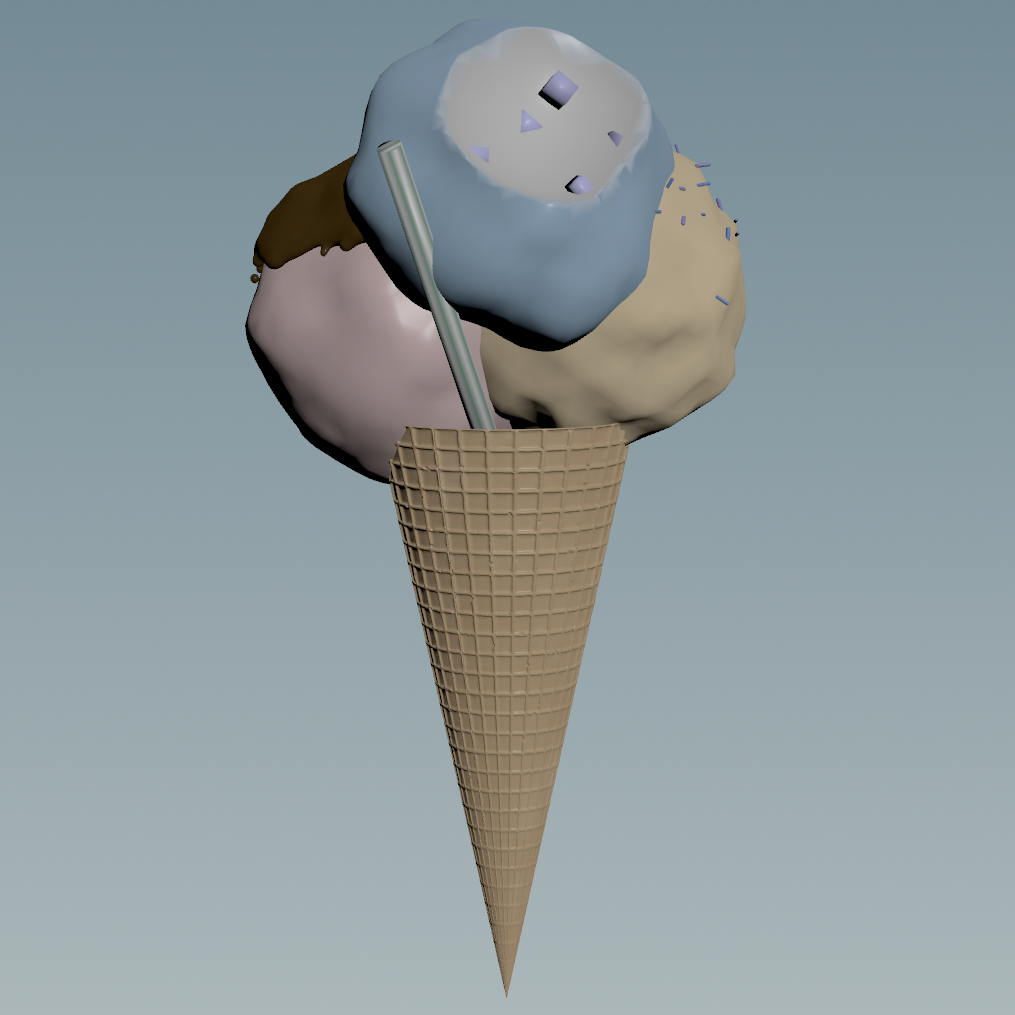
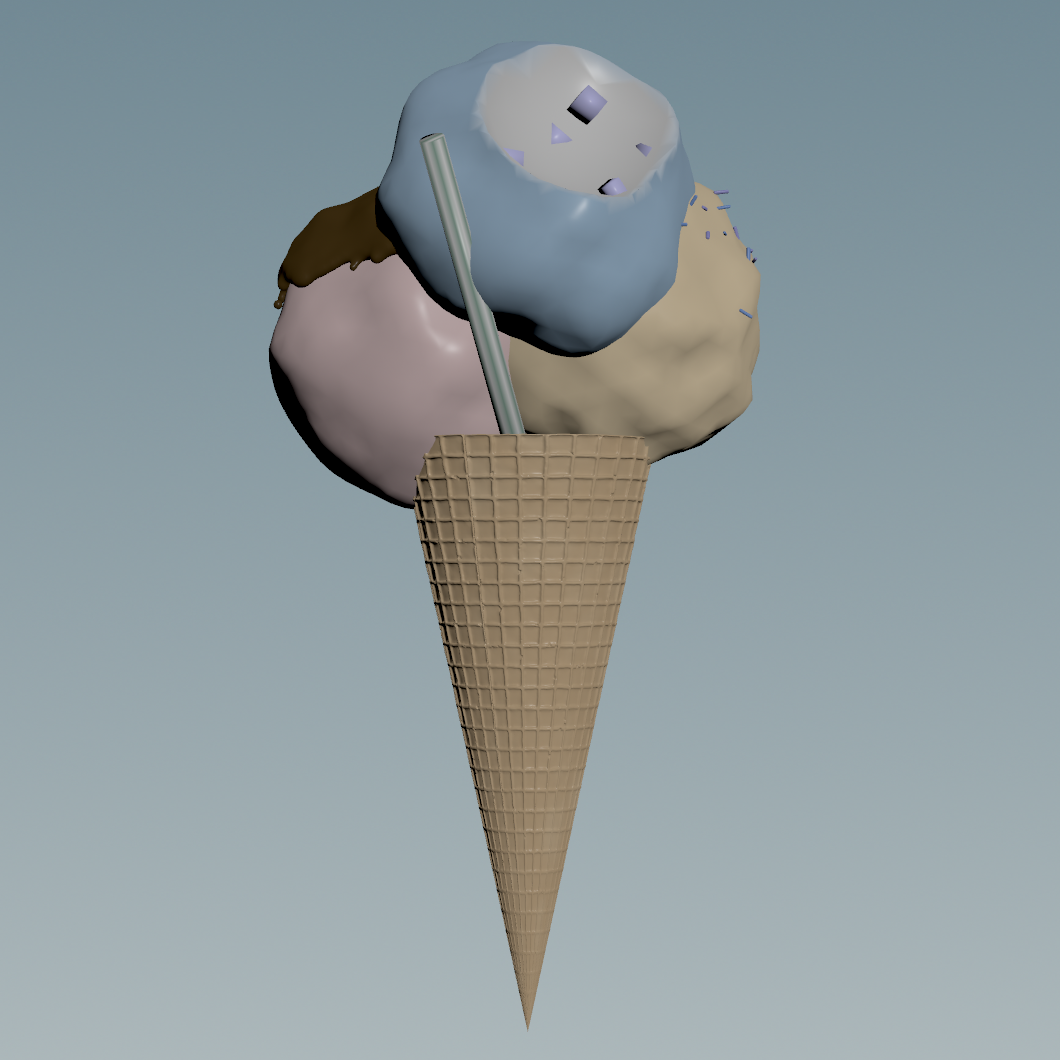
update cone

diff --git a/Project1/Ice Cream/README.md b/Project1/Ice Cream/README.md
@@ -13,7 +13,6 @@
   - [Ice Cream Scoops](#ice-cream-scoops)
   - [Decorative Biscuit Stick](#decorative-biscuit-stick)
 - [Dynamic Parameters](#dynamic-parameters)
-- [Dynamic Parameters](#dynamic-parameters-1)
 - [Challenges and Solutions](#challenges-and-solutions)
 - [Visual Showcase](#visual-showcase)
 - [Future Improvements](#future-improvements)
@@ -35,10 +34,13 @@ This demo showcases the creation of a procedural ice cream cone using Houdini's 
 ## Implementation Details
 
 ### Waffle Cone
-- **Base Shape:** Created by extruding a grid with a waffle pattern.
-- **Waffle Texture:** Achieved by scattering points on the grid and using `copytopoints` to add small varying-sized particles.
-- **Cone Assembly:** The waffle and particles are combined using VDB to simulate slight irregularities and minor damage.
-- **Final Shape:** The assembled waffle is then shaped into a cone using `bend` and `lineartaper`.
+- **Base Shape:** Created by extruding a grid with `polyextrude` to form the basic waffle structure. <p align=“center”><img src="media/cone_base.png" alt="Cone Base Shape" title="Cone Base Shape" height=250> <img src="media/cone_base_nodes.png" alt="Cone Base Shape Nodes" title="Cone Base Shape Nodes" height=250></p>
+
+- **Damaging Particles:** Achieved by scattering points on the grid, modifying them with `pointwrangle` to add size variation, and using `copytopoints` to add small particles with `mountain` applied to create bumpy surfaces. <p align=“center”><img src="media/cone_particles.png" alt="Cone Damaging Particles" title="Cone Damaging Particles" height=250> <img src="media/cone_particles_nodes.png" alt="Cone Damaging Particles Nodes" title="Cone Damaging Particles Nodes" height=250></p>
+
+- **Waffle Pattern Formation:** The waffle grid and scattered particles are combined using VDB to simulate slight irregularities and minor damage. After merging, a `pointvop` is used to add noise to the `P` attribute, and another `pointvop` is applied to assign two slightly different colors to the waffle structure. <p align=“center”><img src="media/cone_waffle.png" alt="Cone Waffle Pattern" title="Cone Waffle Pattern" height=250> <img src="media/cone_waffle_nodes.png" alt="Cone Waffle Pattern Nodes" title="Cone Waffle Pattern Nodes" height=250></p>
+
+- **Cone Shaping:** The waffle structure is then transformed into a cone shape using `bend` and `lineartaper`. <p align=“center”><img src="media/cone_shaping.png" alt="Cone Shaping" title="Cone Shaping" height=250> <img src="media/cone_shaping_nodes.png" alt="Cone Shaping Nodes" title="Cone Shaping Nodes" height=250></p>
 
 ### Ice Cream Scoops
 - **Base Shape:** A deformed sphere created with `mountain` for an uneven, natural surface. Three variations are made:
@@ -60,10 +62,6 @@ This demo showcases the creation of a procedural ice cream cone using Houdini's 
 
 ### Decorative Biscuit Stick
 - **Base Shape:** Started with a `tube` and used VEX to select alternating columns, assigning different colors to create a striped effect.
-
-## Dynamic Parameters
-- **Cone Radius:** Controls the cone's size, which the scoop size automatically adjusts with.
-- **Number of Scoops:** Controls the number of ice cream scoops, which the scoop positions dynamically adjusts with.
 
 ## Dynamic Parameters
 - **Cone Radius:** Controls the size of the cone, which the scoop size automatically adjusts with.
